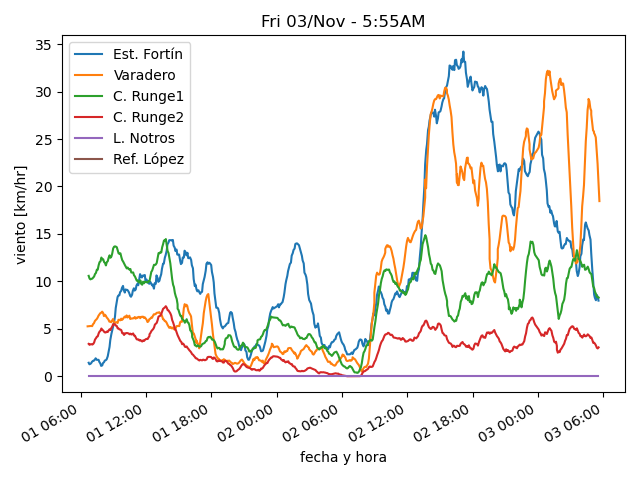
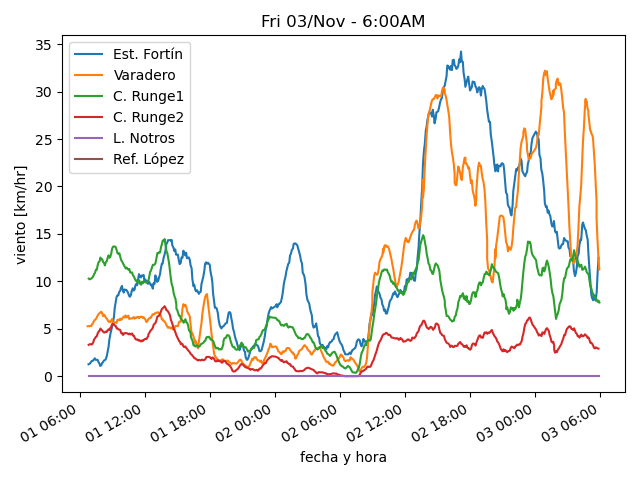
actualiza datos

diff --git a/estaciones/estacion4.html b/estaciones/estacion4.html
@@ -18,32 +18,32 @@
     </tr>
     <tr>
      <td class="stats_data">
-      5:34AM
+      5:49AM
      </td>
     </tr>
     <tr>
      <td class="stats_data">
-      5.4⁰C
+      5.3⁰C
      </td>
     </tr>
     <tr>
      <td class="stats_data">
-      -0.4⁰C
+      -0.2⁰C
      </td>
     </tr>
     <tr>
      <td class="stats_data">
-      66.6%
+      68.1%
      </td>
     </tr>
     <tr>
      <td class="stats_data">
-      1019.91hPa
+      1020.01hPa
      </td>
     </tr>
     <tr>
      <td class="stats_data">
-      2.5/4.1 km/hr SSW
+      1.1/1.8 km/hr SW
      </td>
     </tr>
     <tr>

diff --git a/estaciones/estacion3.html b/estaciones/estacion3.html
@@ -18,32 +18,32 @@
     </tr>
     <tr>
      <td class="stats_data">
-      5:34AM
+      5:54AM
      </td>
     </tr>
     <tr>
      <td class="stats_data">
-      5.6⁰C
+      5.4⁰C
      </td>
     </tr>
     <tr>
      <td class="stats_data">
-      0.6⁰C
+      0.5⁰C
      </td>
     </tr>
     <tr>
      <td class="stats_data">
-      70.3%
+      70.9%
      </td>
     </tr>
     <tr>
      <td class="stats_data">
-      1011.04hPa
+      1011.14hPa
      </td>
     </tr>
     <tr>
      <td class="stats_data">
-      5.4/8.0 km/hr WNW
+      4.6/6.4 km/hr WSW
      </td>
     </tr>
     <tr>

diff --git a/estaciones/estacion1.html b/estaciones/estacion1.html
@@ -18,22 +18,22 @@
     </tr>
     <tr>
      <td class="stats_data">
-      5:33AM
+      5:49AM
      </td>
     </tr>
     <tr>
      <td class="stats_data">
-      6.1⁰C
+      6.6⁰C
      </td>
     </tr>
     <tr>
      <td class="stats_data">
-      0.0⁰C
+      0.2⁰C
      </td>
     </tr>
     <tr>
      <td class="stats_data">
-      65.0%
+      63.7%
      </td>
     </tr>
     <tr>
@@ -43,7 +43,7 @@
     </tr>
     <tr>
      <td class="stats_data">
-      5.6/10.5 km/hr SW
+      17.8/23.6 km/hr WSW
      </td>
     </tr>
     <tr>

diff --git a/estaciones/estacion2.html b/estaciones/estacion2.html
@@ -18,22 +18,22 @@
     </tr>
     <tr>
      <td class="stats_data">
-      5:39AM
+      5:54AM
      </td>
     </tr>
     <tr>
      <td class="stats_data">
-      6.8⁰C
+      6.6⁰C
      </td>
     </tr>
     <tr>
      <td class="stats_data">
-      1.9⁰C
+      1.5⁰C
      </td>
     </tr>
     <tr>
      <td class="stats_data">
-      71.0%
+      69.9%
      </td>
     </tr>
     <tr>
@@ -43,7 +43,7 @@
     </tr>
     <tr>
      <td class="stats_data">
-      4.6/7.4 km/hr W
+      6.9/11.5 km/hr WNW
      </td>
     </tr>
     <tr>

diff --git a/estaciones/estacion5.html b/estaciones/estacion5.html
@@ -18,27 +18,27 @@
     </tr>
     <tr>
      <td class="stats_data">
-      5:30AM
+      5:50AM
      </td>
     </tr>
     <tr>
      <td class="stats_data">
-      2.8⁰C
+      2.4⁰C
      </td>
     </tr>
     <tr>
      <td class="stats_data">
-      0.2⁰C
+      0.1⁰C
      </td>
     </tr>
     <tr>
      <td class="stats_data">
-      83.0%
+      84.0%
      </td>
     </tr>
     <tr>
      <td class="stats_data">
-      1024.79hPa
+      1024.99hPa
      </td>
     </tr>
     <tr>
